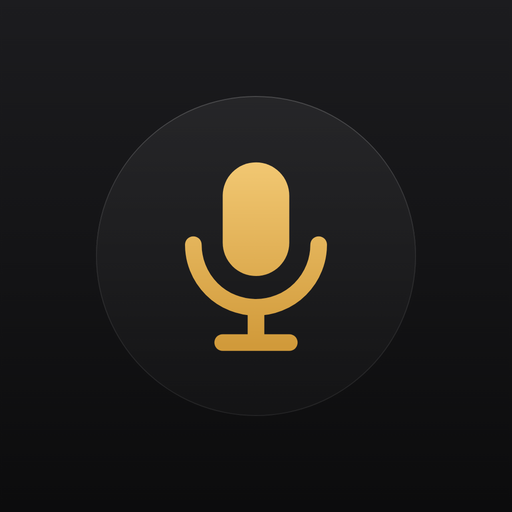
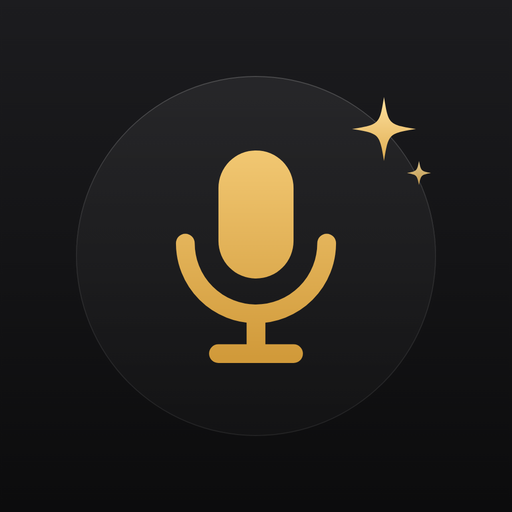
Иконка: блёстка, крупнее круг и микрофон
Claude-Session: https://claude.ai/code/session_0153Ca9PwxTAUhg9Qyd8q6Hx

diff --git a/sw.js b/sw.js
@@ -1,5 +1,5 @@
 // Offline cache for Калькулятор lango.show. New version is picked up on the next launch after an update.
-const CACHE = 'lango-calc-c1fb7939';
+const CACHE = 'lango-calc-c1fb793a';
 const FILES = ['./', './index.html', './manifest.webmanifest', './icon-180.png', './icon-192.png', './icon-512.png', './icon-512-maskable.png'];
 self.addEventListener('install', e => { e.waitUntil(caches.open(CACHE).then(c => c.addAll(FILES)).then(() => self.skipWaiting())); });
 self.addEventListener('activate', e => { e.waitUntil(caches.keys().then(keys => Promise.all(keys.filter(k => k !== CACHE).map(k => caches.delete(k)))).then(() => self.clients.claim())); });
